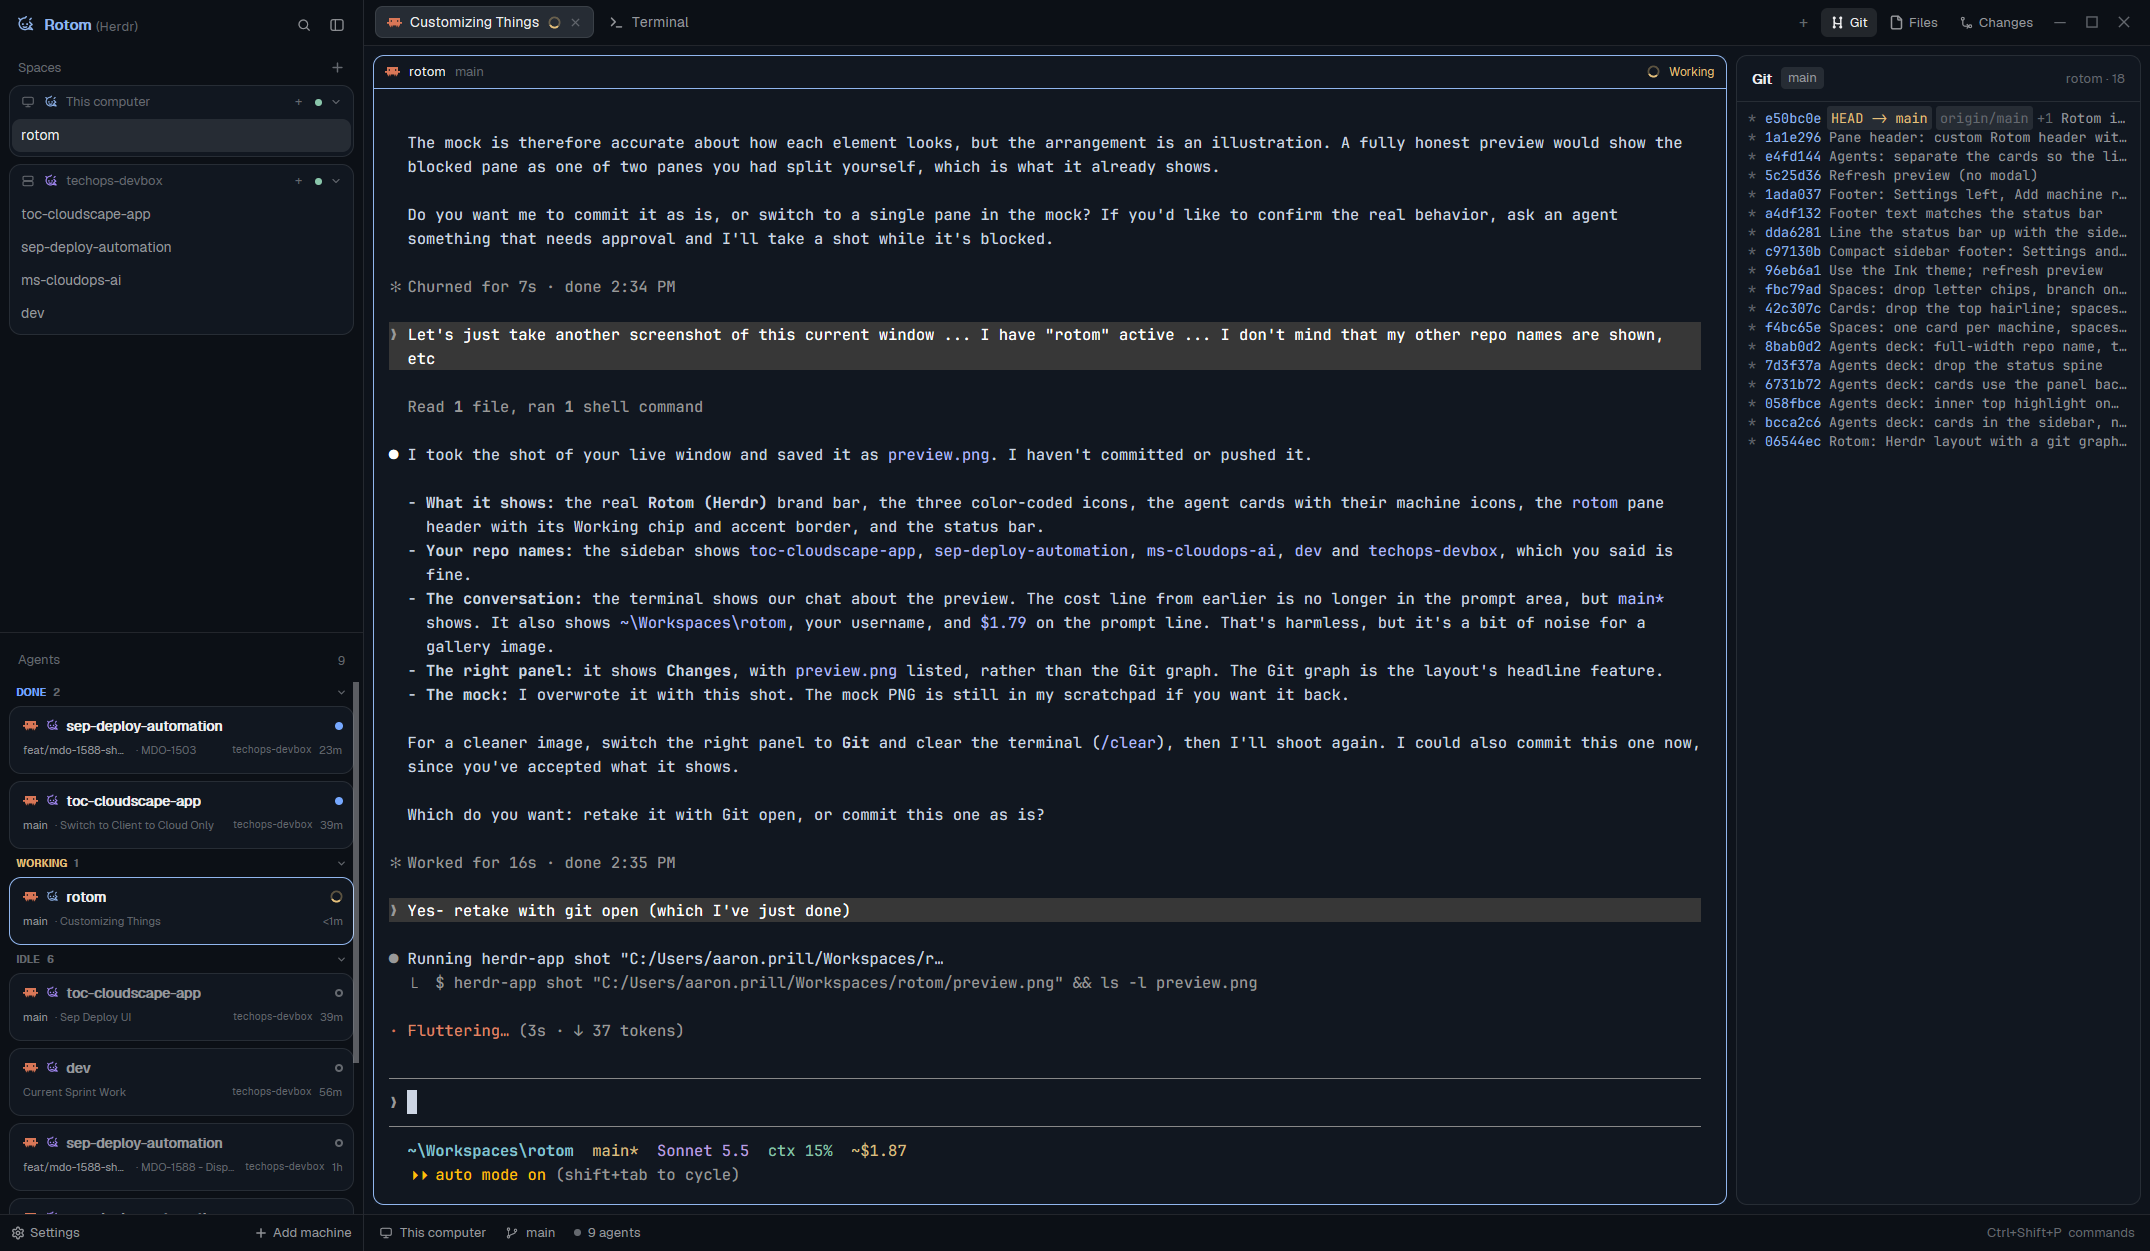
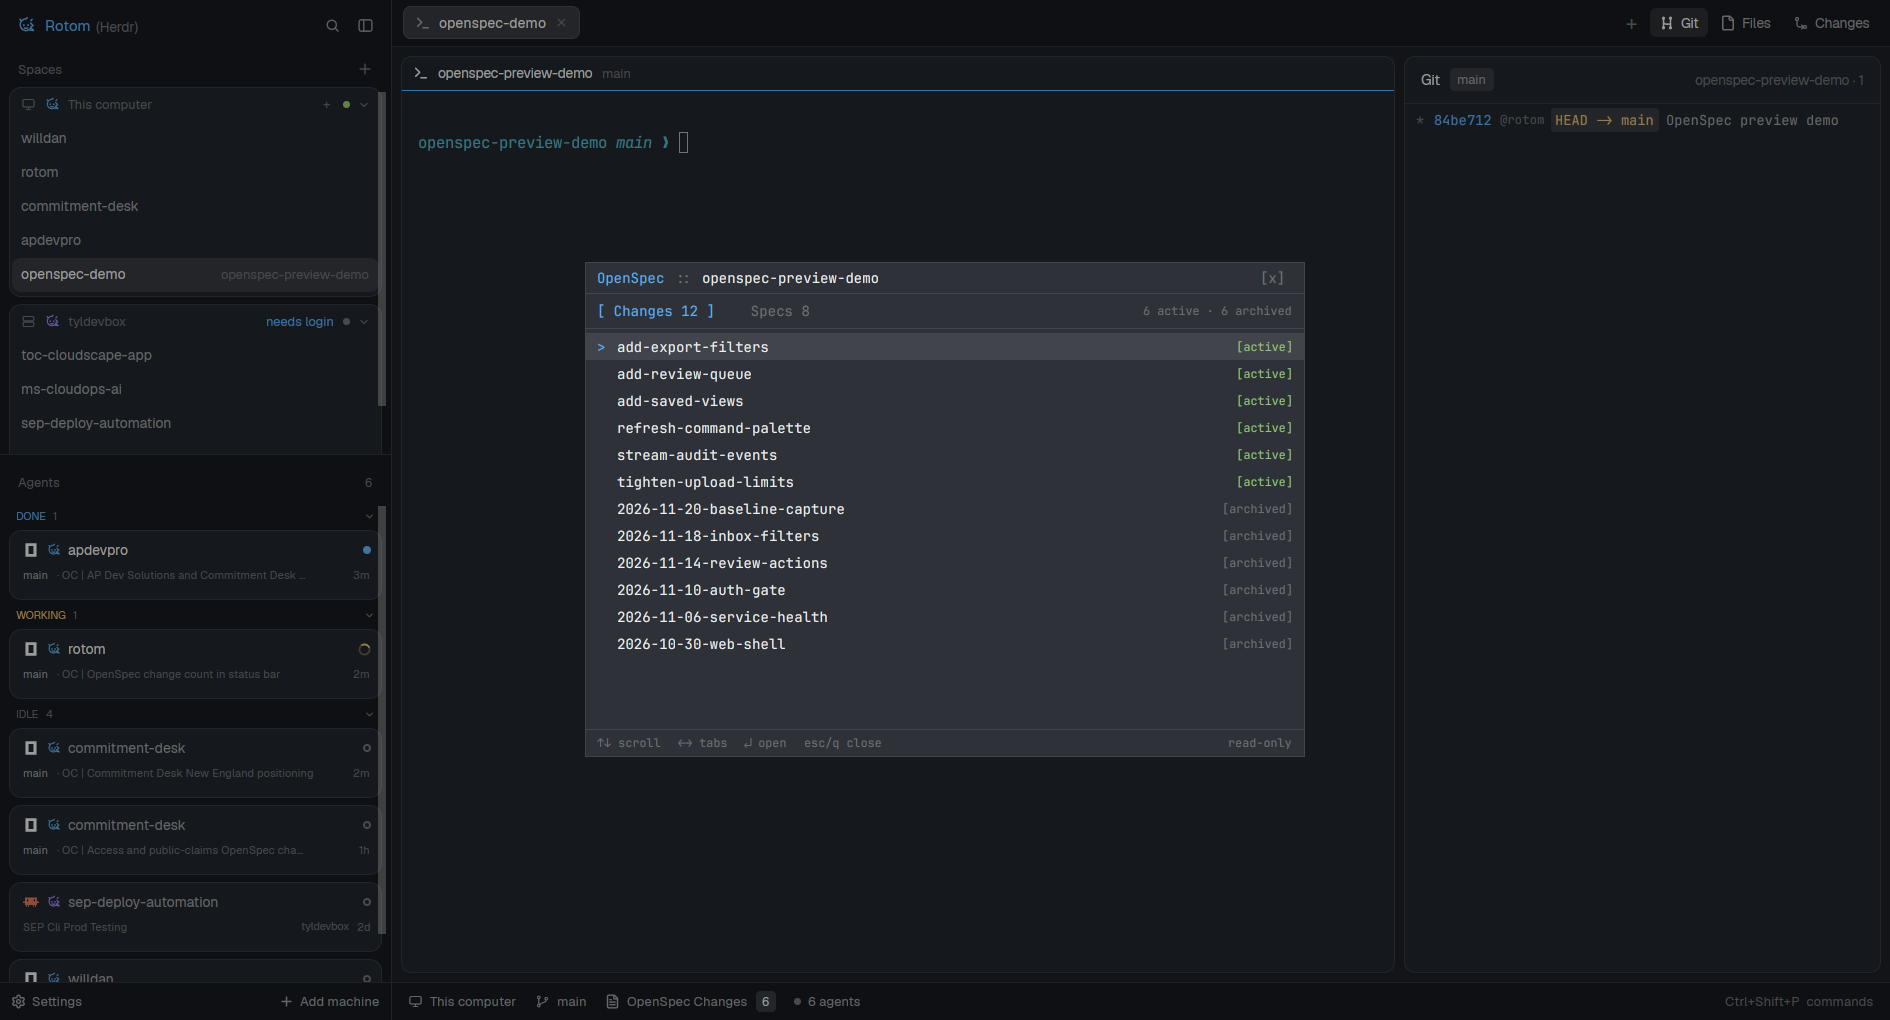
Docs: feature OpenSpec on the gallery and refresh the preview

diff --git a/README.md b/README.md
@@ -5,37 +5,42 @@ layout does the same to your Herdr window: every machine gets its own color,
 and a small plasma spark of that color follows each agent back to the machine
 it lives on.
 
-A Herdr app layout: the default window with a live git graph in the right panel,
-a deck of agent cards in the sidebar, Files and Changes one click away, and a
-`needs login` link that runs the machine's login where you can see it.
+A Herdr app layout with a built-in OpenSpec browser: the status bar counts the
+focused repo's open changes, and one click opens a read-only TUI for active and
+archived changes and specs, then opens `proposal.md` or `spec.md` in a rendered
+Markdown tab. The rest is the default window: a live git graph, an agent deck
+ordered by what needs you, Files and Changes one click away, and a `needs login`
+link that runs the machine's login where you can see it.
+
 Right-click a file in the Files panel to **view it**, **edit it** (as a tab in
 the middle pane, with Save) or **copy its path** relative to the repo root.
 Markdown renders formatted, with a **TUI / Rendered / Source** switch.
+
+![Rotom with the OpenSpec TUI](preview-openspec.png)
 
 > Fan homage, not affiliated with or endorsed by Nintendo, Game Freak or The
 > Pokémon Company. The Rotom icon here is an original line drawing; no
 > Pokémon artwork is included.
 
 See [RECIPE.md](RECIPE.md) for exactly what it is and how another agent can
-build it from scratch, and [preview.png](preview.png) for the window.
+build it from scratch, and [preview-openspec.png](preview-openspec.png) for the
+window with the OpenSpec TUI open.
 
 ## Highlights
 
 - **Machine colors** — each machine gets its own color and Rotom spark; agents
   wear the color of the machine they live on.
+- **OpenSpec browser** — the status bar shows the focused repo's open-change
+  count and opens a read-only TUI with **Changes** (active and archived) and
+  **Specs** (requirement counts). Click a change or spec to read its
+  `proposal.md` or `spec.md` as a rendered Markdown tab. The item is hidden
+  when the repo has no OpenSpec root.
 - **Agents deck** — cards ordered by what needs you (Need you, Done, Working,
   Idle), with pins and foldable sections.
 - **Live git graph** — the right panel runs `git log --graph` for the focused
   pane's repo, refreshing every 5 s (remote repos run git on their machine).
   Each commit shows its short SHA, author handle, refs and subject; hover a
   row to read the full subject.
-- **OpenSpec changes** — the status bar counts the open changes in the focused
-  pane's repo (everything under `openspec/changes` except `archive`), with
-  their names on hover. Click it for a read-only TUI with **Changes** and
-  **Specs** tabs: active and archived changes with status labels, and every
-  spec with its requirement count. Click a change to read its `proposal.md`,
-  or a spec to read its `spec.md`, in a read-only Markdown tab. It hides
-  itself in repos that do not use OpenSpec.
 - **File explorer** — browse the focused folder; right-click a file to **view
   it**, **edit it** as a tab in the middle pane (editable, with Save), or
   **copy its path** relative to the repo root. Markdown opens formatted, with

diff --git a/RECIPE.md b/RECIPE.md
@@ -1,13 +1,14 @@
 # Rotom
 
-A clean, professional layout. Each agent gets its own card with relevant info, and a custom title bar on each pane with directory, branch name, machine so you never get lost. A file explorer, git graph, and git changes pane are optional selections on the right. Named for the Pokémon that slips into a machine and makes it its own: every machine here gets its own color, and a small plasma spark of that color follows each agent home.
+A clean, professional Herdr layout with a built-in OpenSpec browser: the status bar counts open changes, and a read-only TUI lists active and archived changes and specs, opening each `proposal.md` or `spec.md` as a rendered Markdown tab. Each agent gets its own card with relevant info, and a custom title bar on each pane with directory, branch name, and machine so you never get lost. A file explorer, git graph, and git changes pane are optional selections on the right. Named for the Pokémon that slips into a machine and makes it its own: every machine here gets its own color, and a small plasma spark of that color follows each agent home.
 
 Herdr's own window with a live git graph in the right-hand panel, a deck of agent
 cards in the sidebar ordered by what needs you, a Files panel still one click
-away, and a `needs login` link that runs the machine's login command where you
-can actually see its password prompt.
+away, a status bar with the live OpenSpec count and TUI, and a `needs login`
+link that runs the machine's login command where you can actually see its
+password prompt.
 
-![Rotom](preview.png)
+![Rotom with the OpenSpec TUI](preview-openspec.png)
 
 ## What you see
 
@@ -472,5 +473,5 @@ under `machines.folded.v2`, and `agents-cards` stores section folds under
    repo-relative path on the clipboard with a toast. The Files/Git/Changes
    panels hold their folder while the file tab is focused and follow again
    when a terminal pane is focused.
-7. The window matches `preview.png` (allowing for different content in the
-   tabs, sidebar, and graph).
+7. The window matches `preview-openspec.png` with the OpenSpec TUI open
+   (allowing for different content in the tabs, sidebar, and graph).
